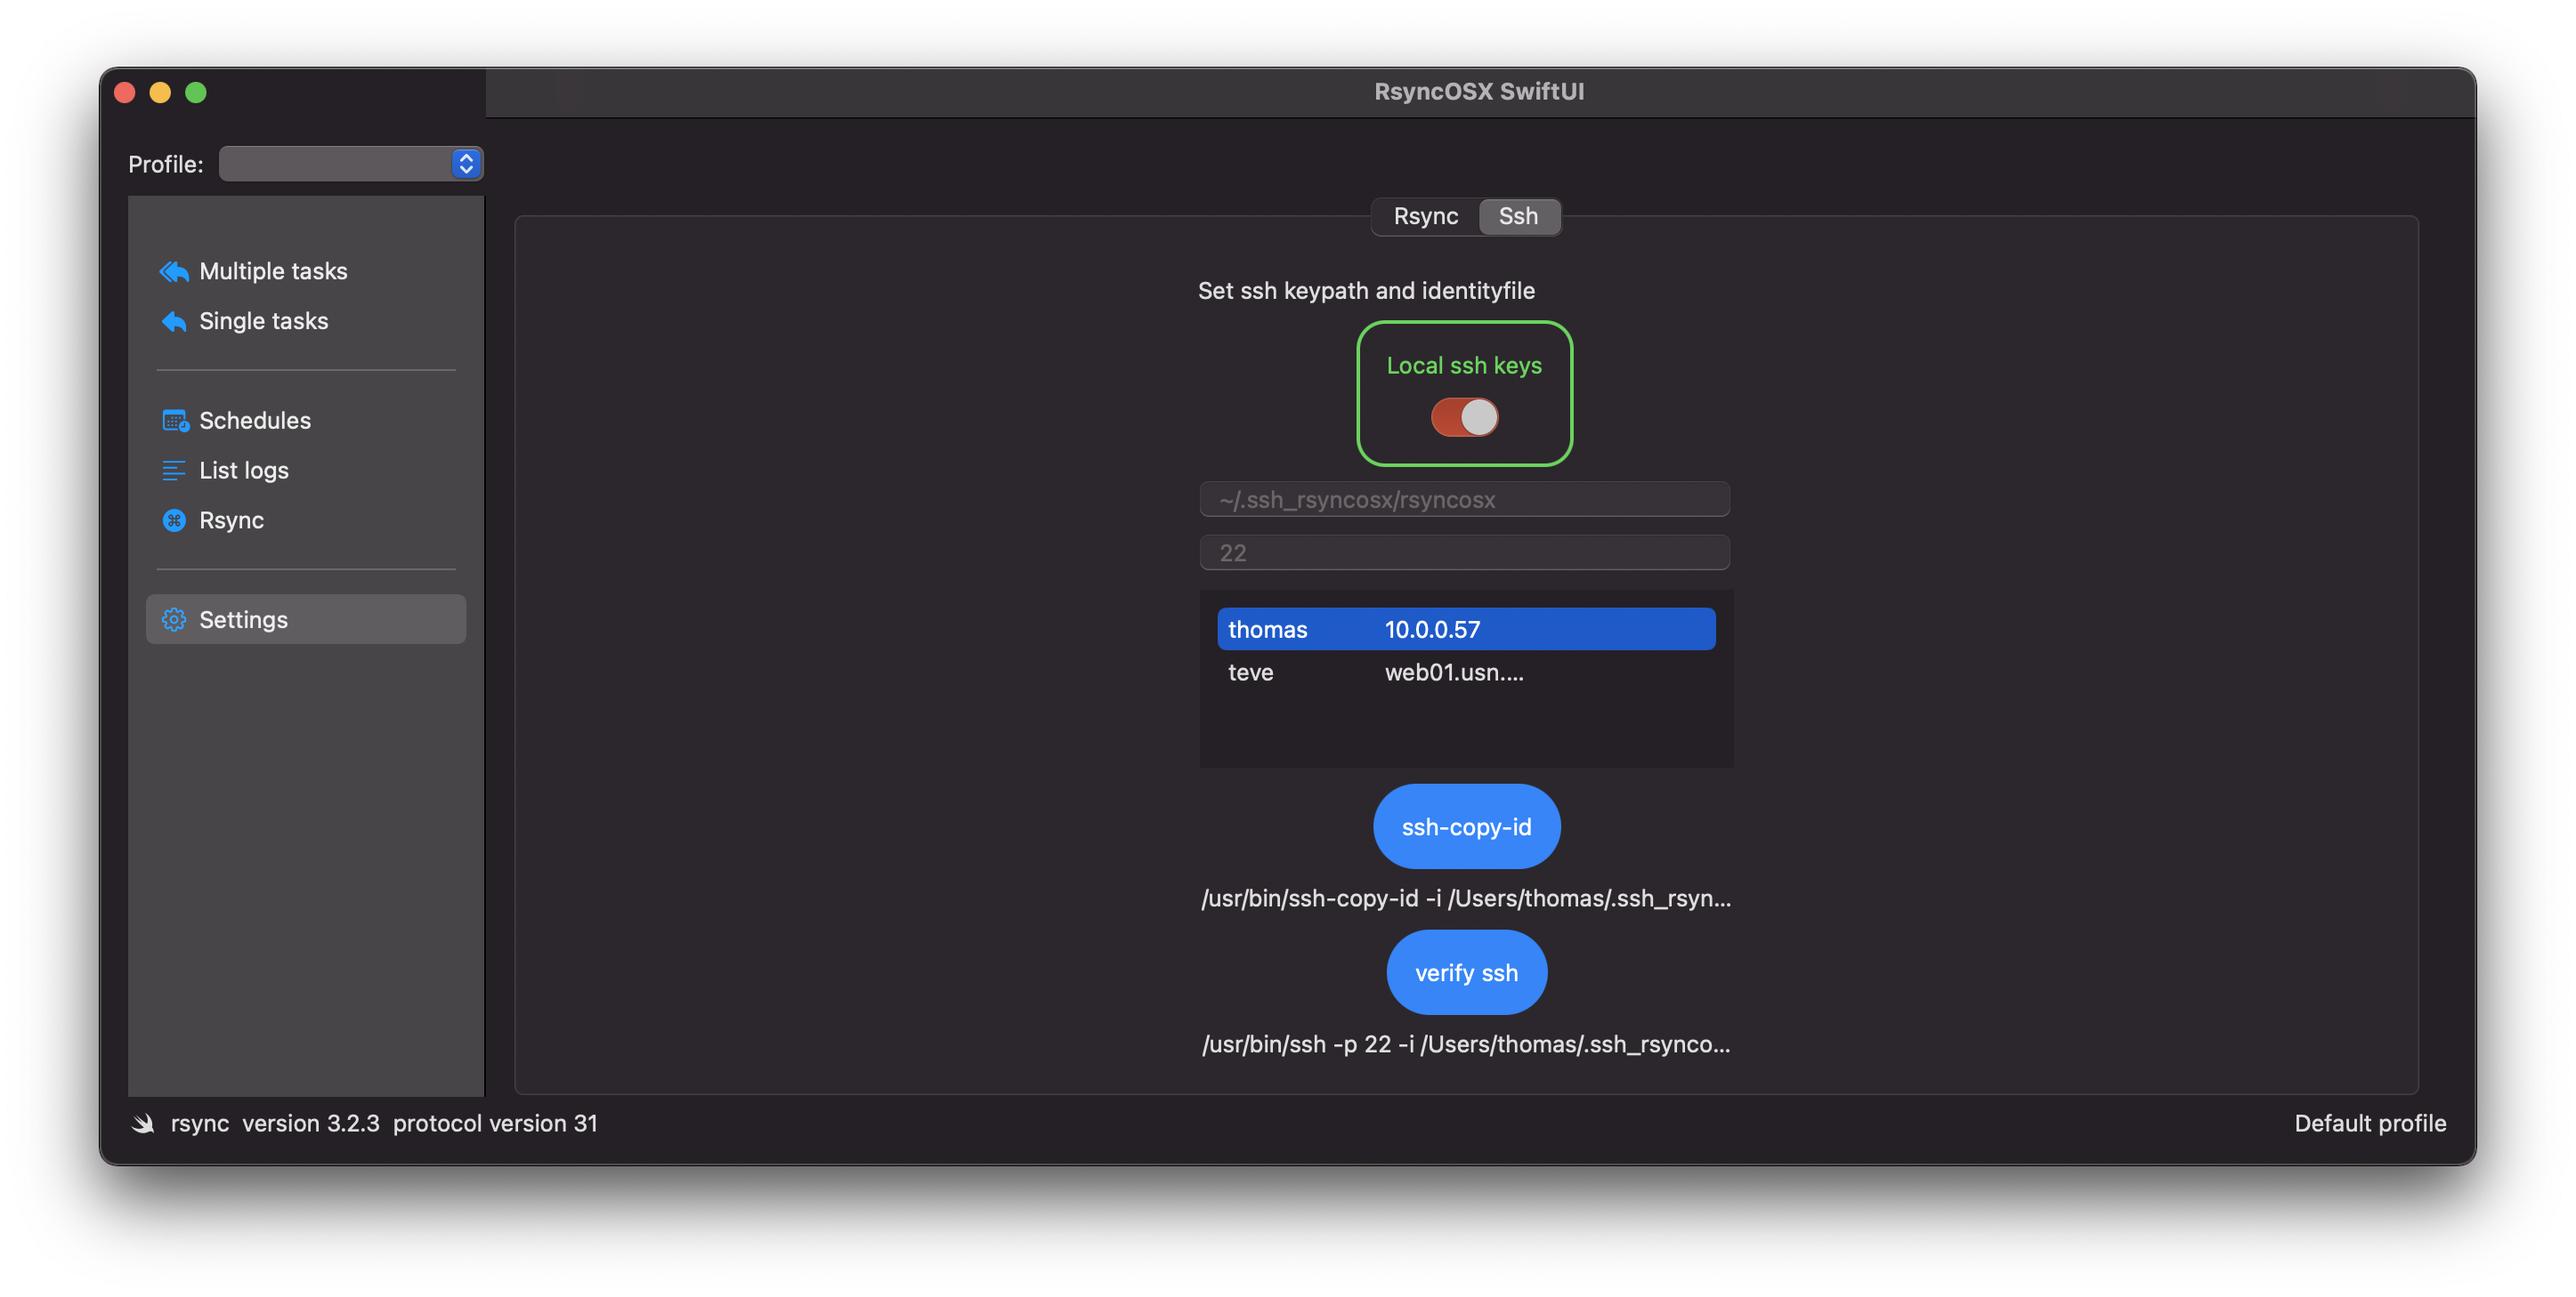
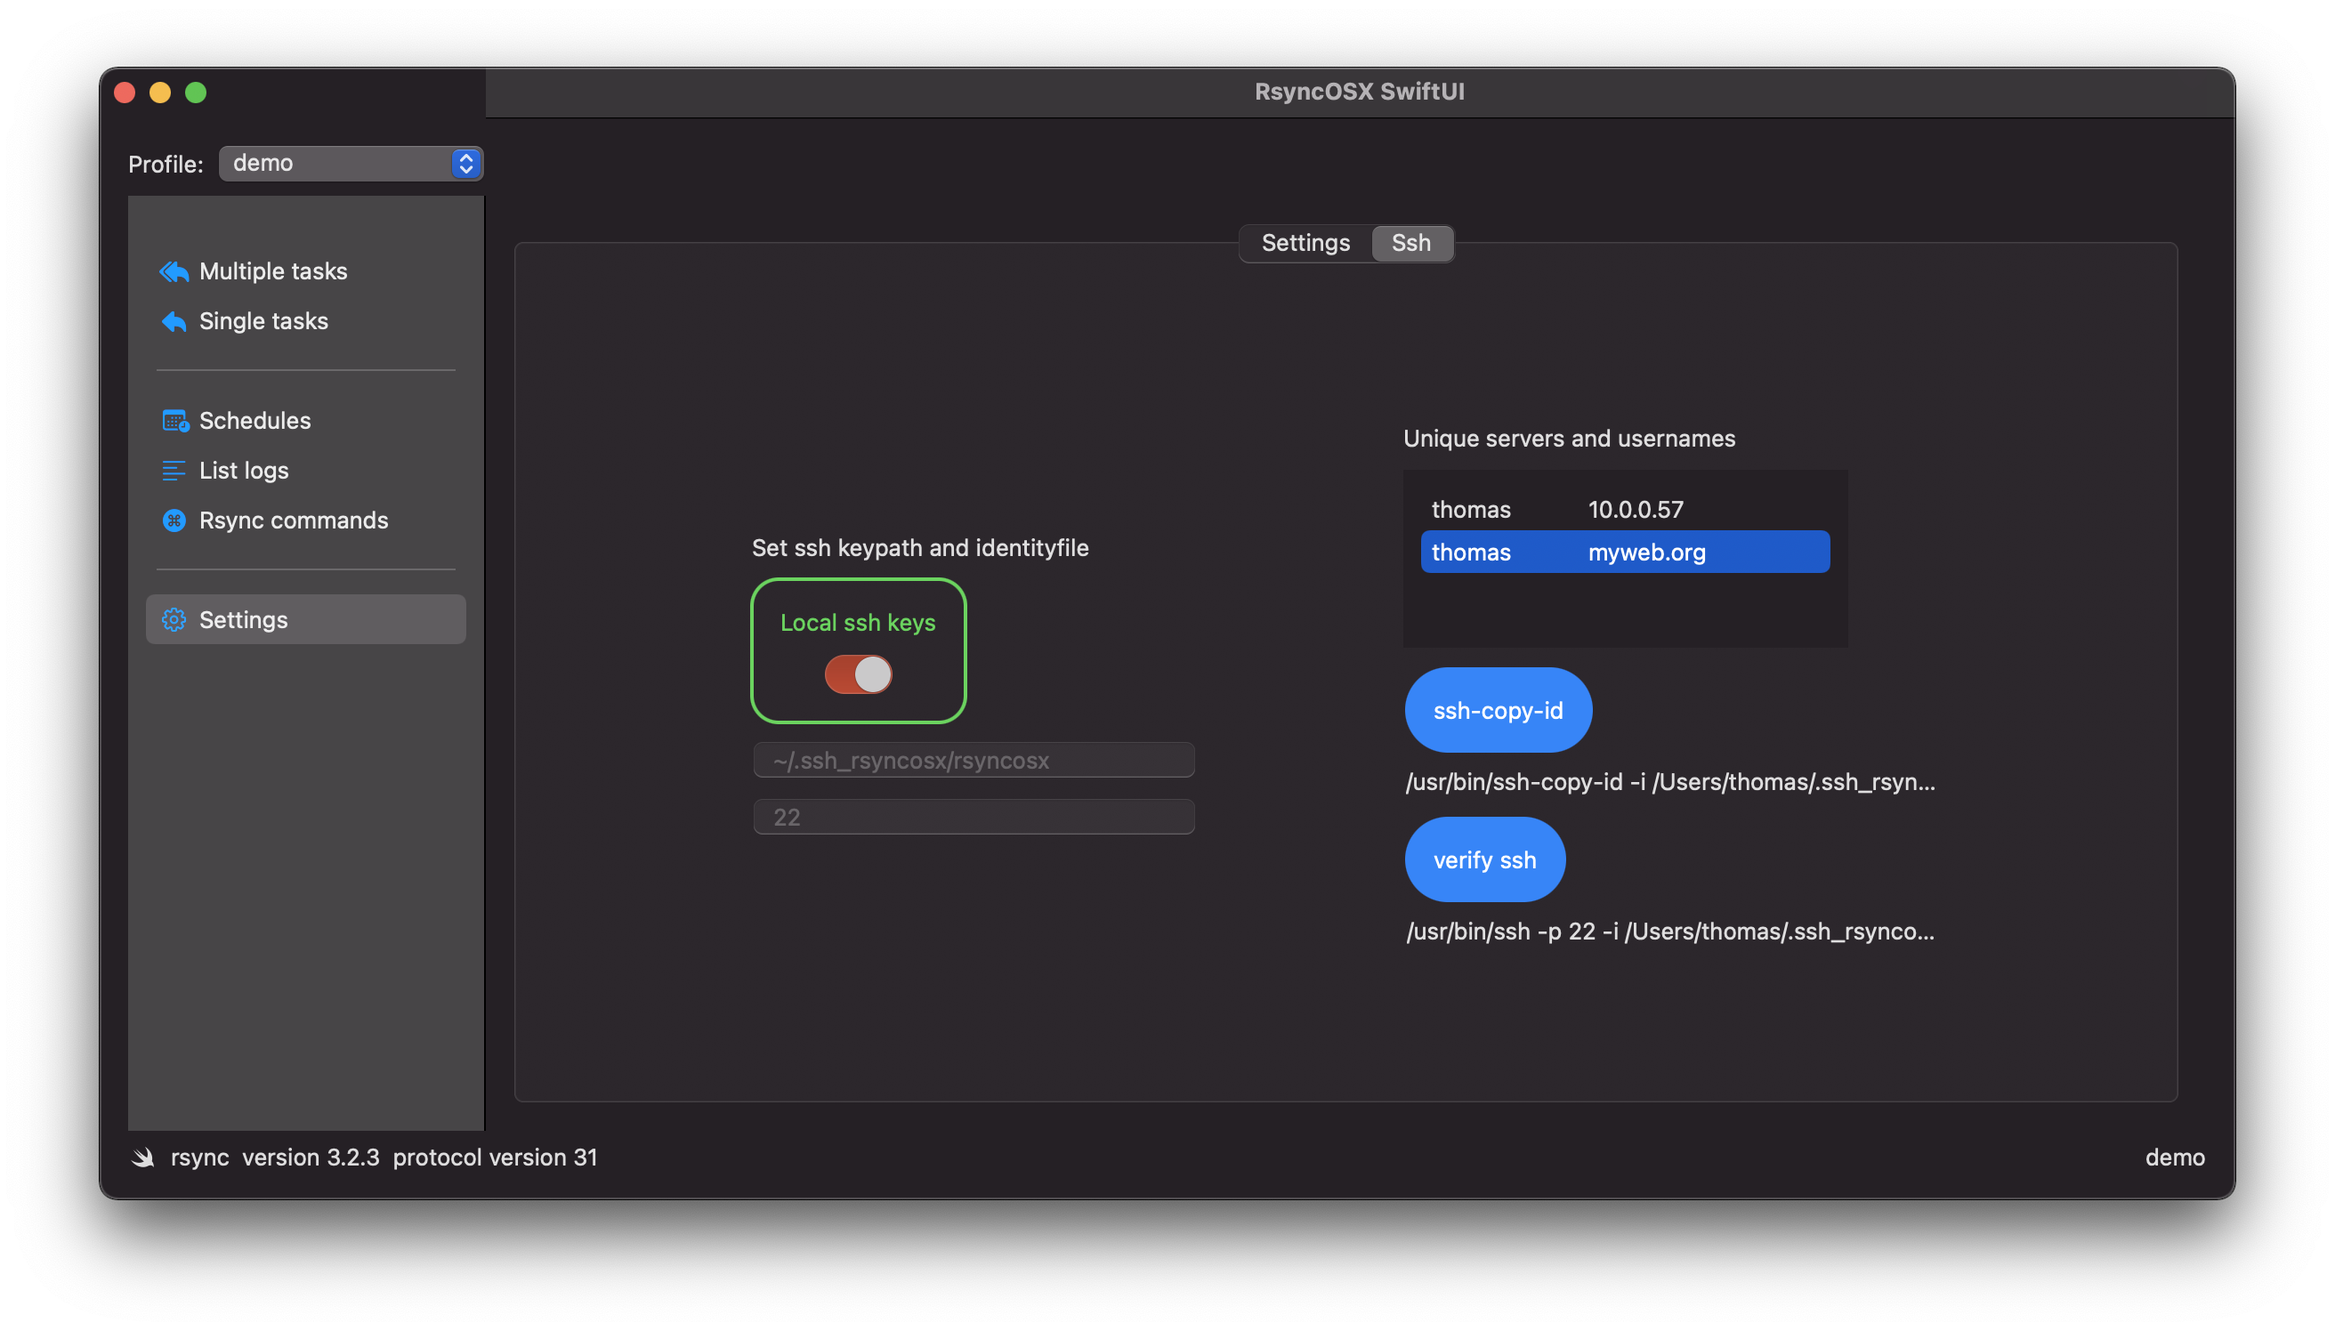
update

diff --git a/content/post/swiftui.md b/content/post/swiftui.md
@@ -89,7 +89,7 @@ Showing logs for one task.
 
 Some user settings.
 
-![](/images/RsyncOSX/master/swiftui/rsync.png)
+![](/images/RsyncOSX/master/swiftui/settings.png)
 
 SSH settings.
 
